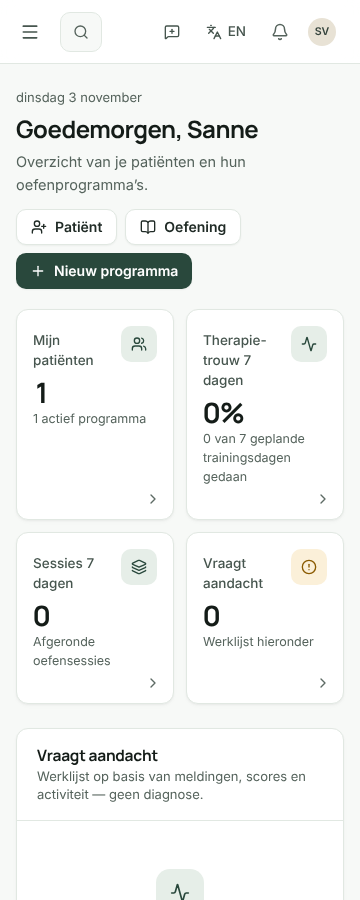
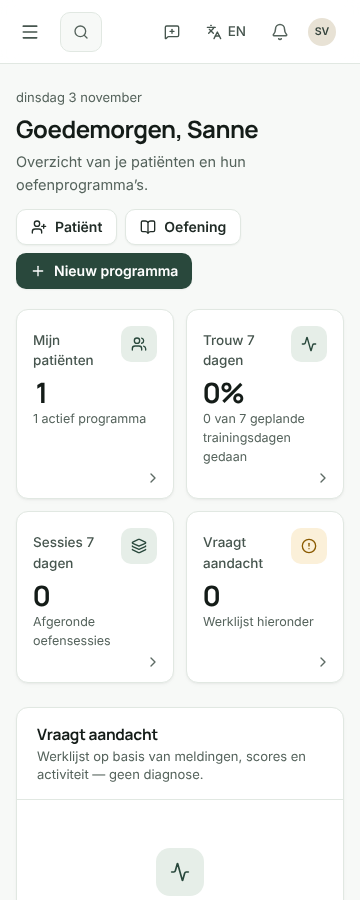
Shorter dashboard label: Trouw 7 dagen
Claude-Session: https://claude.ai/code/session_01LX8STJNNDwUxbGDdeQr5p6

diff --git a/web/src/pages/therapist/DashboardPage.tsx b/web/src/pages/therapist/DashboardPage.tsx
@@ -54,7 +54,7 @@ export function DashboardPage() {
           {d ? (
             <>
               <Stat to="/app/patienten?bereik=mijn" label={t('Mijn patiënten', 'My patients')} value={d.stats.patients} icon={<Users className="h-4 w-4" />} hint={d.stats.activePrograms === 1 ? t('1 actief programma', '1 active programme') : t(`${d.stats.activePrograms} actieve programma’s`, `${d.stats.activePrograms} active programmes`)} />
-              <Stat to="/app/patienten?bereik=mijn" label={t('Therapie\u00ADtrouw 7 dagen', 'Adherence 7 days')} value={pct(d.stats.adherence7d)} icon={<Activity className="h-4 w-4" />} hint={t(`${d.stats.adherence.completed} van ${d.stats.adherence.planned} geplande trainingsdagen gedaan`, `${d.stats.adherence.completed} of ${d.stats.adherence.planned} planned training days done`)} />
+              <Stat to="/app/patienten?bereik=mijn" label={t('Trouw 7 dagen', 'Adherence 7 days')} value={pct(d.stats.adherence7d)} icon={<Activity className="h-4 w-4" />} hint={t(`${d.stats.adherence.completed} van ${d.stats.adherence.planned} geplande trainingsdagen gedaan`, `${d.stats.adherence.completed} of ${d.stats.adherence.planned} planned training days done`)} />
               <Stat href="#recente-activiteit" label={t('Sessies 7 dagen', 'Sessions 7 days')} value={d.stats.sessions7d} icon={<Layers className="h-4 w-4" />} hint={t('Afgeronde oefensessies', 'Completed exercise sessions')} />
               <Stat href="#vraagt-aandacht" label={t('Vraagt aandacht', 'Needs attention')} value={d.stats.attention + d.alerts.length} tone="warn" icon={<AlertCircle className="h-4 w-4" />} hint={t('Werklijst hieronder', 'Work list below')} />
             </>
